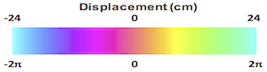
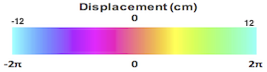
fix ~2pi to 2pi shall be -12 ~ 12

diff --git a/SARImage.py b/SARImage.py
@@ -321,7 +321,8 @@ def lineofsight (ele,azi,radarWL,disO,url):
         # fringe = abs(math.modf(2*losd / radarWL)[0])
         #fringe = 2*losd / radarWL - math.floor(2*losd / radarWL)
         # mapping is changed to ~2pi to 2pi to match UAVSAR
-        fringe = losd / radarWL - math.floor(losd / radarWL)
+        # shall be -12 ~ 12
+        fringe = 2*losd / radarWL - math.floor(2*losd / radarWL)
         #print fringe
         datatable.append([lonlat[0],lonlat[1],fringe])
 
